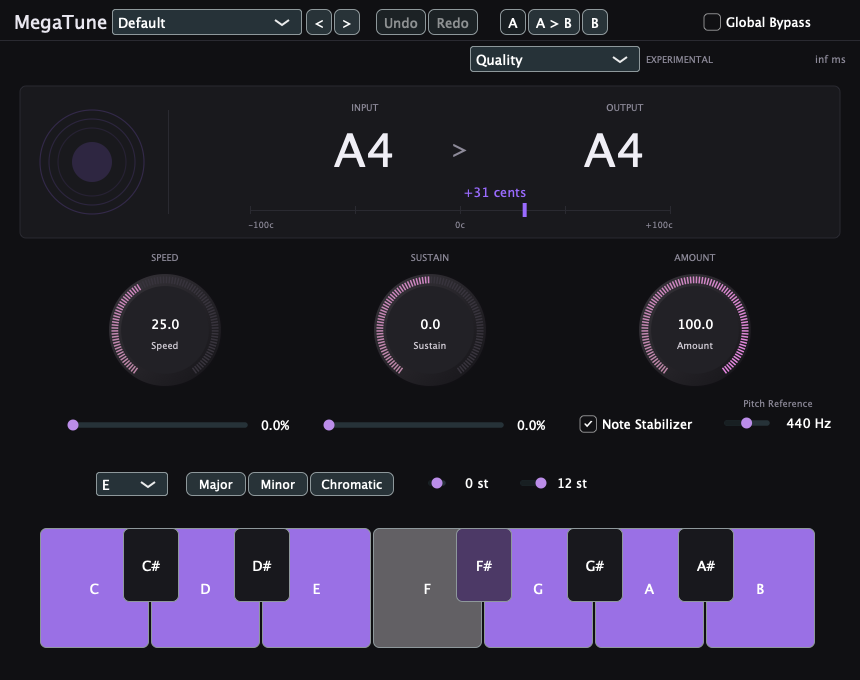
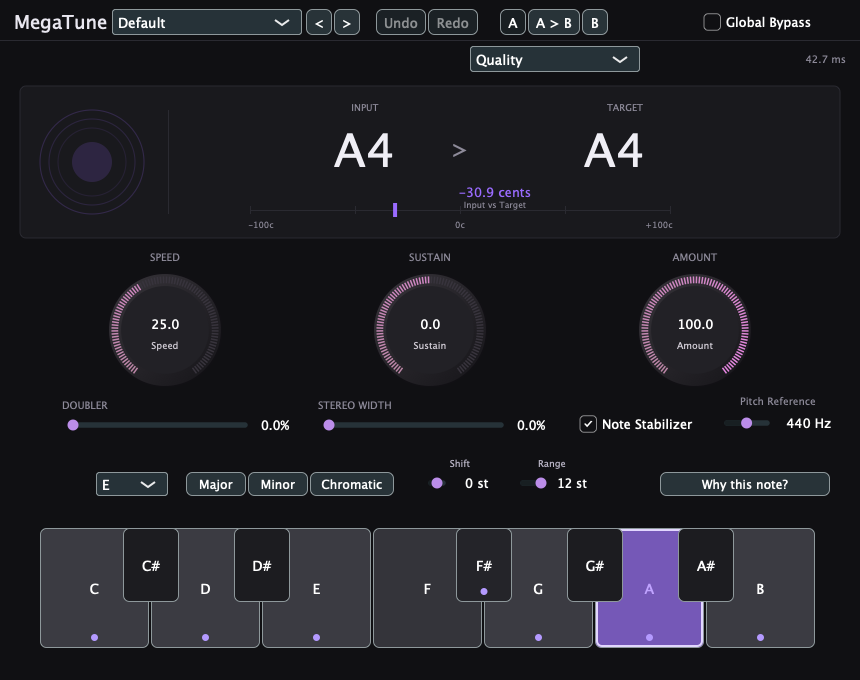
feat: release 0.1.0 with host stability fixes

diff --git a/app/vst3/Plugin.cpp b/app/vst3/Plugin.cpp
@@ -73,6 +73,7 @@ void changeProgramName(int,const juce::String&)override{}
  bool isBusesLayoutSupported(const BusesLayout& l)const override{return l.getMainInputChannelSet()==l.getMainOutputChannelSet()&&(l.getMainOutputChannelSet()==juce::AudioChannelSet::mono()||l.getMainOutputChannelSet()==juce::AudioChannelSet::stereo());}
  void prepareToPlay(double r,int samplesPerBlock)override {rate=r;write=0;analysisCount=0;phase=0;ratio=1;target=0;lastNote=0;heldSeconds=0;doublePhase=0;currentTargetNote=0;psolaGain=0;psolaVoiced=false;voicedHold=0;pitchCount=0;for(auto& c:doubleRing)c.fill(0); for(auto& c:ring)c.fill(0); history.fill(0);hist=0;lowLatencyActive=value("lowlatency")>.5f;window=lowLatencyActive?128:2048;setLatencySamples(window);yinWorkspace.ensure(512);psola[0].prepare(window);psola[1].prepare(window);if(!smithReady||smithRate!=r){smith.presetDefault(2,(float)rate);smithReady=true;smithRate=r;}smith.reset();smithLatency=smith.inputLatency()+smith.outputLatency();if(value("smith")>.5f&&!lowLatencyActive)setLatencySamples(smithLatency);const int staging=juce::jmax(8192,samplesPerBlock);sIn[0].assign((size_t)staging,0.f);sIn[1].assign((size_t)staging,0.f);sOut[0].assign((size_t)staging,0.f);sOut[1].assign((size_t)staging,0.f);}
  void releaseResources()override{}
+ void reset()override{write=0;hist=0;analysisCount=0;phase=0;ratio=1;target=0;lastNote=0;heldSeconds=0;doublePhase=0;currentTargetNote=0;pitch=0;outputPitch=0;level=0;outputLevel=0;pitchCount=0;pitchHist[0]=pitchHist[1]=pitchHist[2]=0;psolaPeriod=200;psolaGain=0;psolaVoiced=false;voicedHold=0;for(auto& c:ring)c.fill(0);for(auto& c:doubleRing)c.fill(0);history.fill(0);psola[0].reset();psola[1].reset();if(smithReady)smith.reset();}
  float value(const char* id) const{const char* ids[]={"speed","sustain","amount","bypass","stabilize","key","doubler","width","reference","lowlatency","shift","range","engine","smith","smithcomp"};for(int i=0;i<15;++i)if(std::strcmp(id,ids[i])==0)return raw[i]->load();auto* v=state.getRawParameterValue(id);return v?v->load():0;}
  float noteValue(int i)const{return noteRaw[i]->load();}
  int smithBufferCapacity()const{return (int)std::min(sIn[0].capacity(),sOut[0].capacity());}
@@ -100,41 +101,51 @@ void changeProgramName(int,const juce::String&)override{}
  void processBlock(juce::AudioBuffer<float>& b,juce::MidiBuffer&)override{processAudio(b,false);}
  void processBlockBypassed(juce::AudioBuffer<float>& b,juce::MidiBuffer&)override{processAudio(b,true);}
  void processAudio(juce::AudioBuffer<float>& b,bool hostBypass){
-  if(!hostBypass&&value("smith")>.5f&&!lowLatencyActive&&value("amount")>0.f){const int n=b.getNumSamples();
+  const bool smithActive=value("smith")>.5f&&!lowLatencyActive;
+  if(!hostBypass&&value("bypass")<=.5f&&smithActive){const int n=b.getNumSamples();
    if(n>(int)sIn[0].size()){const size_t size=(size_t)n;for(auto& channel:sIn)channel.assign(size,0.f);for(auto& channel:sOut)channel.assign(size,0.f);}
-   const int channels=b.getNumChannels();
-   for(int i=0;i<n;++i){float mono=0;for(int c=0;c<channels;++c){const float v=b.getSample(c,i);ring[c][write]=std::isfinite(v)?v:0.f;mono+=ring[c][write]/channels;}
-    history[hist]=mono;hist=(hist+1)%16384;if(++analysisCount>=512){analysisCount=0;analyse();}write=(write+1)%16384;
-    sIn[0][i]=b.getSample(0,i);sIn[1][i]=b.getSample(juce::jmin(1,channels-1),i);}
-   smith.setTransposeSemitones((float)target,0.f);
+   const int channels=juce::jmin(2,b.getNumChannels());if(channels<=0)return;const int second=juce::jmin(1,channels-1);float peak=0;
+   for(int i=0;i<n;++i){float mono=0;for(int c=0;c<channels;++c){const float v=b.getSample(c,i);ring[c][write]=std::isfinite(v)?v:0.f;mono+=ring[c][write]/channels;peak=juce::jmax(peak,std::abs(ring[c][write]));}
+    history[hist]=mono;hist=(hist+1)%16384;if(++analysisCount>=512){analysisCount=0;analyse();}write=(write+1)%ringSize;
+    const float in0=b.getSample(0,i),in1=b.getSample(second,i);sIn[0][i]=std::isfinite(in0)?in0:0.f;sIn[1][i]=std::isfinite(in1)?in1:0.f;}
+   smith.setTransposeSemitones(value("amount")>0.f?(float)target:0.f,0.f);
    smith.setFormantSemitones(0.f,value("smithcomp")>.5f);
    const float* ip[2]={sIn[0].data(),sIn[1].data()};float* op[2]={sOut[0].data(),sOut[1].data()};
    smith.process(ip,n,op,n);
-   for(int c=0;c<b.getNumChannels();++c)for(int i=0;i<n;++i)b.setSample(c,i,sOut[juce::jmin(1,c)][i]);
+   const int outputStart=(write-(n%ringSize)+ringSize)%ringSize;float outPeak=0;
+   for(int i=0;i<n;++i){const int frame=(outputStart+i)%ringSize;
+    for(int c=0;c<channels;++c){float out=sOut[(size_t)c][i];if(!std::isfinite(out))out=0.f;doubleRing[c][frame]=out;
+     if(value("bypass")<=.5f){const float wet=value("doubler")*.005f;const float width=value("width")*.01f;const float delay=juce::jlimit(1.f,16000.f,(18.f+(c==0?-6.f:6.f)*width+std::sin(doublePhase+(c==0?0.f:1.7f))*1.2f)*(float)rate*.001f);float pos=frame-delay;while(pos<0)pos+=ringSize;const int index=(int)pos;const float fraction=pos-index;const float doubled=doubleRing[c][index]*(1-fraction)+doubleRing[c][(index+1)%ringSize]*fraction;out=out*(1-wet)+doubled*wet;}
+     outPeak=juce::jmax(outPeak,std::abs(out));b.setSample(c,i,out);}
+    doublePhase+=1.7f/(float)rate;if(doublePhase>juce::MathConstants<float>::twoPi)doublePhase-=juce::MathConstants<float>::twoPi;}
+   level=peak;outputLevel=outPeak;outputPitch=pitch.load()>0?pitch.load()+target:0.f;
    if(getLatencySamples()!=smithLatency)setLatencySamples(smithLatency);
    return;}
 
 
-  juce::ScopedNoDenormals no;const int channels=b.getNumChannels();float peak=0,outPeak=0;bool bypass=hostBypass||value("bypass")>.5f;
-  const int requestedWindow=value("lowlatency")>.5f?128:2048;if(requestedWindow!=window){window=requestedWindow;lowLatencyActive=window==128;setLatencySamples(window);}const int half=window/2;
-  for(int i=0;i<b.getNumSamples();++i){float mono=0;for(int c=0;c<channels;++c){float v=b.getSample(c,i);ring[c][write]=std::isfinite(v)?v:0;mono+=ring[c][write]/channels;peak=juce::jmax(peak,std::abs(v));}history[hist]=mono;hist=(hist+1)%16384;
+  juce::ScopedNoDenormals no;const int channels=juce::jmin(2,b.getNumChannels());if(channels<=0)return;float peak=0,outPeak=0;bool bypass=hostBypass||value("bypass")>.5f;
+  const int requestedWindow=value("lowlatency")>.5f?128:2048;
+  if(smithActive){if(getLatencySamples()!=smithLatency)setLatencySamples(smithLatency);}
+  else if(requestedWindow!=window){window=requestedWindow;lowLatencyActive=window==128;setLatencySamples(window);}
+  const int half=window/2;const int dryDelay=smithActive?smithLatency:window;
+  for(int i=0;i<b.getNumSamples();++i){float mono=0;for(int c=0;c<channels;++c){float v=b.getSample(c,i);ring[c][write]=std::isfinite(v)?v:0;mono+=ring[c][write]/channels;peak=juce::jmax(peak,std::abs(ring[c][write]));}history[hist]=mono;hist=(hist+1)%16384;
    if(++analysisCount>=512){analysisCount=0;analyse();}
    if(lastNote>0)heldSeconds=juce::jmin(1.f,heldSeconds+1.f/(float)rate);
    float speed=megaTuneSmoothingSeconds(value("speed"),value("sustain"),heldSeconds);float blend=1-std::exp(-1.0f/(float(rate)*juce::jmax(.001f,speed)));ratio+=(std::pow(2.f,target/12)-ratio)*blend;
    phase+=1-ratio;while(phase<0)phase+=window;while(phase>=window)phase-=window;
-   for(int c=0;c<channels;++c){auto read=[&](float delay){float pos=write-delay;while(pos<0)pos+=16384;int a=(int)pos;float t=pos-a;
-     auto tap=[&](int k){return ring[c][(a+k+16384)%16384];};float y0=tap(-1),y1=tap(0),y2=tap(1),y3=tap(2);
+   for(int c=0;c<channels;++c){auto read=[&](float delay){float pos=write-delay;while(pos<0)pos+=ringSize;int a=(int)pos;float t=pos-a;
+     auto tap=[&](int k){return ring[c][(a+k+ringSize)%ringSize];};float y0=tap(-1),y1=tap(0),y2=tap(1),y3=tap(2);
      return y1+.5f*t*(y2-y0+t*(2.f*y0-5.f*y1+4.f*y2-y3+t*(3.f*(y1-y2)+y3-y0)));};float out;
     const float ps=psola[c].process(ring[c][write]);
     if(voicedHold>0)--voicedHold;psolaVoiced=voicedHold>0;psolaGain+=((psolaVoiced?1.f:0.f)-psolaGain)*(psolaVoiced?0.002f:0.0002f);
-    if(bypass||value("amount")==0)out=read(window);
+    if(bypass||value("amount")==0)out=read(dryDelay);
     else if(!lowLatencyActive&&value("engine")>.5f)out=psolaGain*ps+(1.f-psolaGain)*read(window);
     else if(lowLatencyActive){float p2=std::fmod(phase+half,(float)window);float w=.5f-.5f*std::cos(juce::MathConstants<float>::twoPi*phase/window);out=read(half+phase)*w+read(half+p2)*(1-w);}
     else{const float base=(float)(half+window/4);float acc=0;for(int k=0;k<4;++k){float g=std::fmod(phase+k*window*.25f,(float)window);float wt=.5f-.5f*std::cos(juce::MathConstants<float>::twoPi*g/window);acc+=wt*read(base+g);}out=acc*.5f;}
     doubleRing[c][write]=out;
-    if(!bypass){float wet=value("doubler")*.005f;float width=value("width")*.01f;float delay=(18.f+(c==0?-6.f:6.f)*width+std::sin(doublePhase+(c==0?0.f:1.7f))*1.2f)*(float)rate*.001f;delay=juce::jlimit(1.f,16000.f,delay);float pos=write-delay;while(pos<0)pos+=16384;int index=(int)pos;float fraction=pos-index;float doubled=doubleRing[c][index]*(1-fraction)+doubleRing[c][(index+1)%16384]*fraction;out=out*(1-wet)+doubled*wet;}
+    if(!bypass){float wet=value("doubler")*.005f;float width=value("width")*.01f;float delay=(18.f+(c==0?-6.f:6.f)*width+std::sin(doublePhase+(c==0?0.f:1.7f))*1.2f)*(float)rate*.001f;delay=juce::jlimit(1.f,16000.f,delay);float pos=write-delay;while(pos<0)pos+=ringSize;int index=(int)pos;float fraction=pos-index;float doubled=doubleRing[c][index]*(1-fraction)+doubleRing[c][(index+1)%ringSize]*fraction;out=out*(1-wet)+doubled*wet;}
     outPeak=juce::jmax(outPeak,std::abs(out));b.setSample(c,i,out);}
-   doublePhase+=1.7f/(float)rate;if(doublePhase>juce::MathConstants<float>::twoPi)doublePhase-=juce::MathConstants<float>::twoPi;write=(write+1)%16384;
+   doublePhase+=1.7f/(float)rate;if(doublePhase>juce::MathConstants<float>::twoPi)doublePhase-=juce::MathConstants<float>::twoPi;write=(write+1)%ringSize;
   }level=peak;outputLevel=outPeak;float detected=pitch.load();outputPitch=detected>0?detected+((bypass||value("amount")==0)?0.f:12.f*std::log2(juce::jmax(.001f,ratio))):0.f;
  }
  bool hasEditor()const override{return true;}juce::AudioProcessorEditor* createEditor()override;
@@ -143,7 +154,7 @@ void changeProgramName(int,const juce::String&)override{}
 private:
  std::array<std::atomic<float>*,15> raw{};std::array<std::atomic<float>*,12> noteRaw{};
  double rate=44100;int write=0,hist=0,analysisCount=0,lastNote=0,window=2048,pitchCount=0;float pitchHist[3]{};megatune::Psola psola[2];float psolaPeriod=200.f,psolaGain=0.f;bool psolaVoiced=false;int voicedHold=0;signalsmith::stretch::SignalsmithStretch<float> smith;bool smithReady=false;double smithRate=0;std::vector<float> sIn[2],sOut[2];int smithLatency=0;megatune::YinWorkspace yinWorkspace;bool lowLatencyActive=false;float phase=0,ratio=1,target=0,heldSeconds=0;
- std::array<std::array<float,16384>,2> ring{};std::array<float,16384> history{};std::array<std::array<float,16384>,2> doubleRing{};float doublePhase=0;
+ static constexpr int ringSize=65536;std::array<std::array<float,ringSize>,2> ring{};std::array<float,16384> history{};std::array<std::array<float,ringSize>,2> doubleRing{};float doublePhase=0;
 };
 class TunerLook final:public juce::LookAndFeel_V4 {
 public:

diff --git a/app/vst3/Tests.cpp b/app/vst3/Tests.cpp
@@ -2,6 +2,7 @@
 #include <atomic>
 #include <cstdlib>
 #include <iostream>
+#include <limits>
 #include <new>
 #include "EditorApi.h"
 #include "TuningRules.h"
@@ -62,6 +63,69 @@ int main(){
   juce::MidiBuffer mb;juce::AudioBuffer<float> b(2,512);for(int i=0;i<512;++i)for(int c=0;c<2;++c)b.setSample(c,i,.2f*std::sin(juce::MathConstants<double>::twoPi*440*i/48000));
   r->processBlock(b,mb);allocationCount=0;countAllocations=true;r->processBlock(b,mb);countAllocations=false;
   if(allocationCount.load()>0)return 90;}
+ // Non-finite host input must not poison the delay line or Signalsmith path.
+ {auto run=[&](bool smith){std::unique_ptr<juce::AudioProcessor> r(createPluginFilter());
+   for(auto* p:r->getParameters())if(auto* w=dynamic_cast<juce::AudioProcessorParameterWithID*>(p))if(w->paramID=="smith")p->setValueNotifyingHost(smith?1.f:0.f);
+   r->setRateAndBufferSizeDetails(48000,512);r->prepareToPlay(48000,512);
+   juce::AudioBuffer<float> b(2,512);juce::MidiBuffer mb;
+   for(int blk=0;blk<40;++blk){for(int i=0;i<512;++i){const float v=blk<2?std::numeric_limits<float>::quiet_NaN():0.f;b.setSample(0,i,v);b.setSample(1,i,blk<2?std::numeric_limits<float>::infinity():0.f);}r->processBlock(b,mb);
+     for(int i=0;i<512;++i)if(!std::isfinite(b.getSample(0,i))||!std::isfinite(b.getSample(1,i)))return false;}
+   return true;};
+  if(!run(false)||!run(true))return 93;}
+ // reset() must flush delayed audio without changing the prepared configuration.
+ {std::unique_ptr<juce::AudioProcessor> r(createPluginFilter());r->setRateAndBufferSizeDetails(48000,256);r->prepareToPlay(48000,256);
+  juce::AudioBuffer<float> b(2,256);juce::MidiBuffer mb;b.clear();b.setSample(0,0,.8f);b.setSample(1,0,.8f);r->processBlock(b,mb);
+  r->reset();float peak=0;for(int blk=0;blk<24;++blk){b.clear();r->processBlock(b,mb);for(int i=0;i<256;++i)peak=juce::jmax(peak,std::abs(b.getSample(0,i)));}
+  if(peak>1.0e-6f)return 94;}
+ // Signalsmith must also be allocation-free in steady state.
+ {std::unique_ptr<juce::AudioProcessor> r(createPluginFilter());
+  for(auto* p:r->getParameters())if(auto* w=dynamic_cast<juce::AudioProcessorParameterWithID*>(p))if(w->paramID=="smith")p->setValueNotifyingHost(1.f);
+  r->setRateAndBufferSizeDetails(48000,512);r->prepareToPlay(48000,512);
+  juce::AudioBuffer<float> b(2,512);juce::MidiBuffer mb;for(int i=0;i<512;++i)for(int c=0;c<2;++c)b.setSample(c,i,.2f*std::sin(juce::MathConstants<double>::twoPi*440*i/48000));
+  r->processBlock(b,mb);r->processBlock(b,mb);allocationCount=0;countAllocations=true;r->processBlock(b,mb);countAllocations=false;
+  if(allocationCount.load()>0)return 95;}
+ // Global Bypass must still pass dry audio when Signalsmith is selected.
+ {std::unique_ptr<juce::AudioProcessor> r(createPluginFilter());
+  auto setP=[&](const char* id,float v){for(auto* p:r->getParameters())if(auto* w=dynamic_cast<juce::AudioProcessorParameterWithID*>(p))if(w->paramID==id){p->setValueNotifyingHost(v);return;}};
+  for(int n=0;n<12;++n)setP(("note"+juce::String(n)).toRawUTF8(),1.f);setP("smith",1.f);setP("bypass",1.f);setP("amount",1.f);setP("speed",1.f);
+  r->setRateAndBufferSizeDetails(48000,512);r->prepareToPlay(48000,512);
+  juce::AudioBuffer<float> b(2,512);juce::MidiBuffer mb;std::vector<float> steady;
+  for(int blk=0;blk<300;++blk){for(int i=0;i<512;++i){float v=.25f*std::sin(juce::MathConstants<double>::twoPi*432*(blk*512+i)/48000);b.setSample(0,i,v);b.setSample(1,i,v);}r->processBlock(b,mb);if(blk>200)for(int i=0;i<512;++i)steady.push_back(b.getSample(0,i));}
+  int bestLag=0;double best=-1;for(int lag=100;lag<125;++lag){double cross=0;for(size_t i=0;i+lag<steady.size();++i)cross+=steady[i]*steady[i+lag];if(cross>best){best=cross;bestLag=lag;}}
+  if(bestLag<=0)return 96;const double f=48000.0/bestLag;if(std::abs(f-432)>4){std::cerr<<"Signalsmith bypass output "<<f<<" Hz\n";return 96;}}
+ // Doubler and width must still apply after Signalsmith.
+ {std::unique_ptr<juce::AudioProcessor> r(createPluginFilter());
+  auto setP=[&](const char* id,float v){for(auto* p:r->getParameters())if(auto* w=dynamic_cast<juce::AudioProcessorParameterWithID*>(p))if(w->paramID==id){p->setValueNotifyingHost(v);return;}};
+  setP("smith",1.f);setP("doubler",.65f);setP("width",1.f);
+  r->setRateAndBufferSizeDetails(48000,256);r->prepareToPlay(48000,256);
+  juce::AudioBuffer<float> b(2,256);juce::MidiBuffer mb;double difference=0;
+  for(int blk=0;blk<120;++blk){for(int i=0;i<256;++i){float v=.25f*std::sin(juce::MathConstants<double>::twoPi*440*(blk*256+i)/48000);b.setSample(0,i,v);b.setSample(1,i,v);}r->processBlock(b,mb);if(blk>80)for(int i=0;i<256;++i)difference+=std::abs(b.getSample(0,i)-b.getSample(1,i));}
+  if(difference<1){std::cerr<<"Signalsmith doubler is silent\n";return 97;}}
+ // Host bypass must be latency-aligned with the selected Signalsmith engine.
+ {std::unique_ptr<juce::AudioProcessor> r(createPluginFilter());
+  for(auto* p:r->getParameters())if(auto* w=dynamic_cast<juce::AudioProcessorParameterWithID*>(p))if(w->paramID=="smith")p->setValueNotifyingHost(1.f);
+  r->setRateAndBufferSizeDetails(48000,512);r->prepareToPlay(48000,512);const int latency=r->getLatencySamples();
+  juce::AudioBuffer<float> b(2,512);juce::MidiBuffer mb;int onset=-1;
+  for(int blk=0;blk<20&&onset<0;++blk){b.clear();if(blk==0){b.setSample(0,0,1.f);b.setSample(1,0,1.f);}r->processBlockBypassed(b,mb);
+   for(int i=0;i<512;++i)if(std::abs(b.getSample(0,i))>1.0e-4f){onset=blk*512+i;break;}}
+  if(onset!=latency){std::cerr<<"Signalsmith bypass onset "<<onset<<" != "<<latency<<"\n";return 98;}}
+ // Engine, sample-rate and block-size matrix must stay finite.
+ {for(double sr:{44100.0,48000.0,96000.0})for(int block:{1,17,512,4096})for(int mode=0;mode<4;++mode){
+   std::unique_ptr<juce::AudioProcessor> r(createPluginFilter());
+   auto setP=[&](const char* id,float v){for(auto* p:r->getParameters())if(auto* w=dynamic_cast<juce::AudioProcessorParameterWithID*>(p))if(w->paramID==id){p->setValueNotifyingHost(v);return;}};
+   for(int n=0;n<12;++n)setP(("note"+juce::String(n)).toRawUTF8(),1.f);setP("key",0.f);setP("amount",1.f);setP("speed",1.f);
+   setP("lowlatency",mode==1?1.f:0.f);setP("engine",mode==2?1.f:0.f);setP("smith",mode==3?1.f:0.f);
+   r->setRateAndBufferSizeDetails(sr,block);r->prepareToPlay(sr,block);
+   juce::AudioBuffer<float> b(2,block);juce::MidiBuffer mb;double phase=0;
+   for(int blk=0;blk<6;++blk){for(int i=0;i<block;++i){const float v=.2f*std::sin(phase);phase+=juce::MathConstants<double>::twoPi*220/sr;b.setSample(0,i,v);b.setSample(1,i,v);}r->processBlock(b,mb);
+    for(int c=0;c<2;++c)for(int i=0;i<block;++i)if(!std::isfinite(b.getSample(c,i))){std::cerr<<"non-finite output sr="<<sr<<" block="<<block<<" mode="<<mode<<"\n";return 99;}}}}
+ // Mono and unexpected extra channels must be safe.
+ {std::unique_ptr<juce::AudioProcessor> r(createPluginFilter());r->setRateAndBufferSizeDetails(48000,512);r->prepareToPlay(48000,512);
+  juce::AudioBuffer<float> mono(1,512);juce::MidiBuffer mb;for(int i=0;i<512;++i)mono.setSample(0,i,.2f*std::sin(juce::MathConstants<double>::twoPi*220*i/48000));r->processBlock(mono,mb);
+  for(int i=0;i<512;++i)if(!std::isfinite(mono.getSample(0,i)))return 100;
+  for(auto* p:r->getParameters())if(auto* w=dynamic_cast<juce::AudioProcessorParameterWithID*>(p))if(w->paramID=="smith")p->setValueNotifyingHost(1.f);
+  r->prepareToPlay(48000,512);juce::AudioBuffer<float> four(4,512);four.clear();juce::MidiBuffer m4;r->processBlock(four,m4);
+  for(int c=0;c<2;++c)for(int i=0;i<512;++i)if(!std::isfinite(four.getSample(c,i)))return 101;}
 juce::ScopedJuceInitialiser_GUI init;std::unique_ptr<juce::AudioProcessor> p(createPluginFilter());auto* rangedSpeed=dynamic_cast<juce::RangedAudioParameter*>(p->getParameters()[1]);
  auto* rangedAmount=dynamic_cast<juce::RangedAudioParameter*>(p->getParameters()[3]);
  if(!rangedSpeed || !rangedAmount || std::abs(rangedSpeed->convertFrom0to1(0.f)-200.f)>.001f || std::abs(rangedSpeed->convertFrom0to1(.392f)-25.f)>.001f || std::abs(rangedSpeed->convertFrom0to1(.784f))>.001f || std::abs(rangedSpeed->convertFrom0to1(1.f)+3.f)>.001f || std::abs(rangedAmount->convertFrom0to1(.5f)-75.f)>.001f) {std::cerr<<"Recovered parameter landmarks differ\n";return 13;}
@@ -259,7 +323,8 @@ juce::ScopedJuceInitialiser_GUI init;std::unique_ptr<juce::AudioProcessor> p(cre
  {juce::AudioFormatManager fm;fm.registerBasicFormats();
   juce::File dry(juce::File::getCurrentWorkingDirectory().getParentDirectory().getParentDirectory().getParentDirectory().getChildFile("test-audio/ade-dry.wav"));
   std::unique_ptr<juce::AudioFormatReader> rd(dry.exists()?fm.createReaderFor(dry):nullptr);
-  if(rd==nullptr){std::cerr<<"VOCAL fixture missing\n";}
+  if(rd==nullptr){std::cerr<<"VOCAL fixture missing; skipping\n";}
+  else{
   const int sr2=(int)rd->sampleRate;const int total=(int)juce::jmin((juce::int64)rd->lengthInSamples,(juce::int64)sr2*40);
   juce::AudioBuffer<float> all(1,total);rd->read(&all,0,total,0,true,false);
   auto mk=[&](bool gOn,int mutePc){std::unique_ptr<juce::AudioProcessor> r(createPluginFilter());
@@ -299,7 +364,7 @@ juce::ScopedJuceInitialiser_GUI init;std::unique_ptr<juce::AudioProcessor> p(cre
     std::cerr<<"TRACE voiced before="<<nb<<" excluded="<<ne<<" of "<<tb.size()<<" first_before="<<(tb.empty()?-9:tb[0])<<" first_excluded="<<(te.empty()?-9:te[0])<<"\n";
     for(size_t k=0;k<tb.size()&&k<te.size();++k)if(tb[k]!=te[k]){std::cerr<<"first diff at block "<<k<<" before="<<tb[k]<<" excluded="<<te[k]<<"\n";break;}}
    if(d1==0||d2!=0)std::cerr<<"VOCAL demo inconclusive (does not abort)\n";
-  }}
+  }}}
 
  // ---- deterministic disabled-target check: 490 Hz, A#/B/C enabled ----
  {auto mk2=[&](bool bOn,bool stab){std::unique_ptr<juce::AudioProcessor> r(createPluginFilter());

diff --git a/app/vst3/TuningDsp.h b/app/vst3/TuningDsp.h
@@ -130,6 +130,14 @@ public:
         acc.assign ((size_t) ACC, 0.0f);
         wsum.assign ((size_t) ACC, 0.0f);
         latency = latencySamples;
+        reset();
+    }
+
+    void reset()
+    {
+        std::fill (ring.begin(), ring.end(), 0.0f);
+        std::fill (acc.begin(), acc.end(), 0.0f);
+        std::fill (wsum.begin(), wsum.end(), 0.0f);
         w = 0; written = 0; outIdx = 0; nextCenter = 0.0;
         period = 200.0; ratio = 1.0; lastMark = 0; haveMark = false;
         started = false; voiced = false;

diff --git a/README.md b/README.md
@@ -4,14 +4,15 @@ A clean-room reconstruction of the **Slate Digital MetaTune** vocal tuner: a JUC
 plug-in with a live pitch monitor, a diagnostic "Why this note?" history, four selectable
 pitch engines, factory presets and a fully themed editor.
 
-> **Status: release candidate 2 (experimental).** Pitch correction, latency reporting,
+> **Status: 0.1.0 (experimental).** Pitch correction, latency reporting,
 > presets, automation and the exclude/undo workflow are verified. **Formant preservation is
 > unvalidated** and the build is **ad-hoc signed, not notarized**. See [Status](#status)
 > before shipping anything.
 >
-> RC2 fixes oversized host blocks, sample-rate changes in the Signalsmith engine, audio-thread
-> allocations during pitch analysis, and an inaccurate held-target history reason. `build.sh`
-> now produces a universal binary.
+> 0.1.0 fixes oversized host blocks, sample-rate changes in the Signalsmith engine,
+> audio-thread allocations during pitch analysis, an inaccurate held-target history reason,
+> and Signalsmith bypass/doubler/latency handling. It also hardens non-finite input and
+> `reset()`.
 
 ---
 
@@ -77,9 +78,9 @@ Declared latency matches measured impulse onset and cross-correlation lag at 44.
 
 ## Install
 
-Latest release candidate (universal arm64 + x86_64):
+Version 0.1.0 (universal arm64 + x86_64):
 
-https://github.com/ajdohaxhia/megatune/releases/tag/v1.0.1-rc2
+https://github.com/ajdohaxhia/megatune/releases/tag/v0.1.0
 
 ```bash
 # from the release archive or app/dist
@@ -147,6 +148,10 @@ The suite covers, among others:
 - 16384-sample host blocks stay inside the staging buffers
 - a prepared analysis window performs no heap allocations
 - held-target decisions are distinguished from fresh target changes
+- Signalsmith obeys Global Bypass and still applies Doubler/Width
+- host bypass stays latency-aligned at the Signalsmith latency
+- non-finite input, `reset()` and extra/mono channel buffers stay safe
+- the engine × sample-rate × block-size matrix produces finite audio
 - **Why this note?** end-to-end: 432 Hz tone A4 → exclude A → G♯4 → Undo → A4
 - 490 Hz disabled-target control (with and without Note Stabilizer)
 - real-take target change: at 17.71 s of the dry fixture, excluding G retargets
@@ -203,6 +208,8 @@ app/
 | Low latency | ✅ 128 samples verified |
 | Large host blocks / sample-rate changes | ✅ 16384-sample block and 48 → 96 kHz verified |
 | Audio-thread allocations in analysis | ✅ none after prepare |
+| Signalsmith bypass / doubler / latency | ✅ verified |
+| Non-finite input / reset / channel safety | ✅ verified |
 | Why this note? → Exclude → Undo | ✅ verified on synthetic tone and on a real take |
 | Presets, automation, recall, A/B | ✅ verified |
 | **Formant preservation** | ❌ **unvalidated** — the estimator misclassifies known test cases |

diff --git a/app/MECHANICS.md b/app/MECHANICS.md
@@ -1,5 +1,28 @@
 # Mechanics and evidence
 
+## 0.1.0 stability pass — 2026-11-05
+
+Additional host-facing fixes, each covered by a regression:
+
+- Signalsmith now honours Global Bypass and applies Doubler/Stereo Width after
+  the engine, matching the normal path.
+- Host/global bypass while Signalsmith is selected now uses the Signalsmith
+  latency for its dry delay, so the reported and measured onset stay aligned.
+  The delay ring was enlarged to cover 120 ms through 384 kHz.
+- Non-finite input is sanitised before both engine paths, and Signalsmith output
+  is sanitised before it reaches the host or the doubler tail.
+- `reset()` now flushes the delay lines, PSOLA grains and Signalsmith state
+  without changing the prepared configuration.
+- Processing is clamped to two channels defensively; mono and extra-channel
+  buffers are safe.
+- The test suite skips the optional real-vocal fixture instead of dereferencing
+  a missing reader. The full suite now passes natively and under Rosetta x86_64.
+- A 3 sample-rate × 4 block-size × 4 engine matrix checks finite output.
+
+Signalsmith was also verified through the packaged VST3 at 96 kHz: declared and
+measured latency both report 11,520 samples (120 ms), and the same suite passes
+under AddressSanitizer/UndefinedBehaviorSanitizer.
+
 ## RC2 stability fixes — 2026-11-05
 
 Four host-facing defects found in review are fixed with regressions:

diff --git a/app/dist/README.md b/app/dist/README.md
@@ -1,11 +1,12 @@
-# MegaTune 1.0.1 RC2 — VST3 (macOS, universal arm64 + x86_64)
+# MegaTune 0.1.0 — VST3 (macOS, universal arm64 + x86_64)
 
 Install: double-click `Install MegaTune.command` (or copy `MegaTune.vst3` to
 `~/Library/Audio/Plug-Ins/VST3/`), then rescan plug-ins in your DAW.
 
-RC2 fixes oversized host blocks, sample-rate changes in the Signalsmith engine,
-audio-thread allocations during pitch analysis and an inaccurate held-target
-history reason.
+0.1.0 fixes oversized host blocks, sample-rate changes in the Signalsmith engine,
+audio-thread allocations during pitch analysis, held-target history reasons, and
+Signalsmith bypass, doubler and latency handling. Non-finite input and `reset()`
+are hardened.
 
 ## Engines
 - **Quality** — 4-grain shifter, 2048 samples (42.7 ms @ 48 kHz)

diff --git a/docs/INSTALL.md b/docs/INSTALL.md
@@ -1,11 +1,12 @@
-# MegaTune 1.0.1 RC2 — VST3 (macOS, universal arm64 + x86_64)
+# MegaTune 0.1.0 — VST3 (macOS, universal arm64 + x86_64)
 
 Install: double-click `Install MegaTune.command` (or copy `MegaTune.vst3` to
 `~/Library/Audio/Plug-Ins/VST3/`), then rescan plug-ins in your DAW.
 
-RC2 fixes oversized host blocks, sample-rate changes in the Signalsmith engine,
-audio-thread allocations during pitch analysis and an inaccurate held-target
-history reason.
+0.1.0 fixes oversized host blocks, sample-rate changes in the Signalsmith engine,
+audio-thread allocations during pitch analysis, held-target history reasons, and
+Signalsmith bypass, doubler and latency handling. Non-finite input and `reset()`
+are hardened.
 
 ## Engines
 - **Quality** — 4-grain shifter, 2048 samples (42.7 ms @ 48 kHz)
